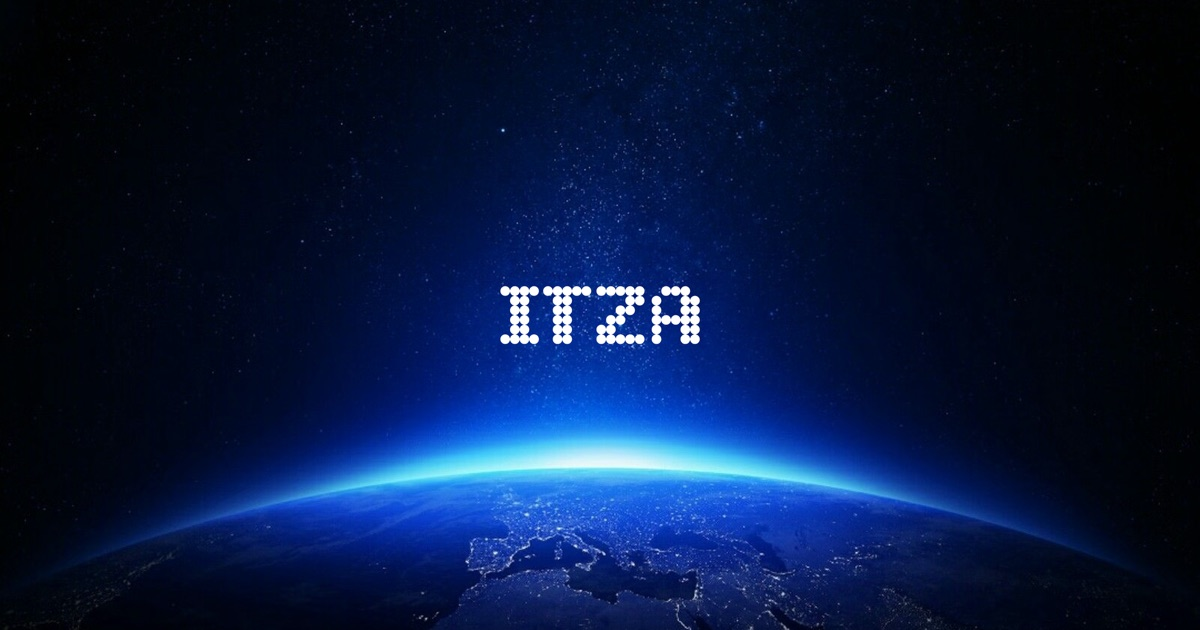
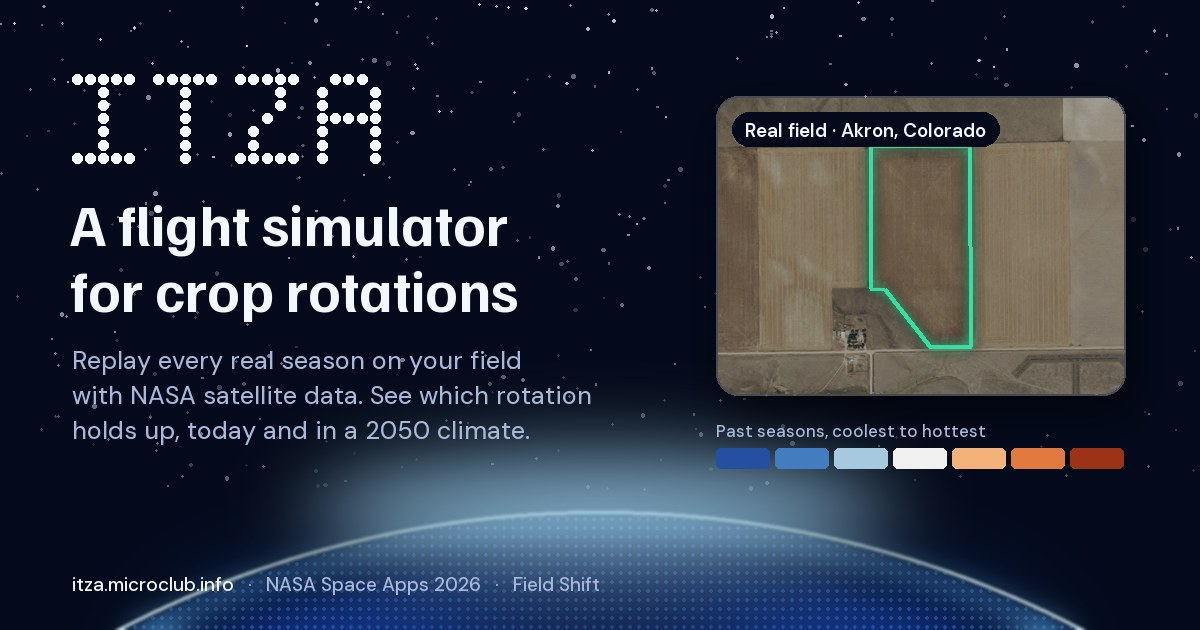
feat(web): draw a new link-preview image from licensed sources

diff --git a/apps/web/index.html b/apps/web/index.html
@@ -29,7 +29,7 @@
     <meta property="og:image:type" content="image/jpeg" />
     <meta property="og:image:width" content="1200" />
     <meta property="og:image:height" content="630" />
-    <meta property="og:image:alt" content="ITZA written in dots above the glowing edge of the Earth seen from space" />
+    <meta property="og:image:alt" content="ITZA, a flight simulator for crop rotations: a real Akron, Colorado field outlined on an aerial photo, above the glowing edge of a dotted Earth" />
 
     <meta name="twitter:card" content="summary_large_image" />
     <meta name="twitter:title" content="ITZA: See Earth Through Time" />
@@ -40,7 +40,7 @@
     <meta name="twitter:image" content="https://itza.microclub.info/og.jpg" />
     <meta
       name="twitter:image:alt"
-      content="ITZA written in dots above the glowing edge of the Earth seen from space"
+      content="ITZA, a flight simulator for crop rotations: a real Akron, Colorado field outlined on an aerial photo, above the glowing edge of a dotted Earth"
     />
 
     <link rel="icon" href="/favicon.svg" type="image/svg+xml" />

diff --git a/apps/web/scripts/make_og_image.py b/apps/web/scripts/make_og_image.py
@@ -1,0 +1,267 @@
+# /// script
+# requires-python = ">=3.12"
+# dependencies = ["pillow>=11", "httpx>=0.28", "fonttools>=4.55", "brotli>=1.1", "pyyaml>=6"]
+# ///
+"""Draws apps/web/public/og.jpg (1200 x 630), the link-preview image.
+
+Everything is drawn here except the field photo: USGS National Map orthoimagery (public domain) of
+the Akron proof field, with its outline from pipelines/hero_fields.yaml. Fonts are the app's own
+DM Sans and Familjen Grotesk (SIL Open Font License), read from node_modules.
+
+    uv run apps/web/scripts/make_og_image.py
+"""
+
+from __future__ import annotations
+
+import io
+import math
+import os
+import random
+import tempfile
+from pathlib import Path
+
+import httpx
+import yaml
+from fontTools.ttLib import TTFont
+from PIL import Image, ImageDraw, ImageFilter, ImageFont
+
+ROOT = Path(__file__).resolve().parents[3]
+OUT = Path(os.environ.get("OG_OUT", ROOT / "apps/web/public/og.jpg"))
+FIELDS = Path(os.environ.get("HERO_FIELDS", ROOT / "pipelines/hero_fields.yaml"))
+W, H = 1200, 630
+BG = (4, 10, 28)
+INK = (243, 247, 255)
+MUTED = (168, 184, 216)
+ACCENT = (127, 208, 255)
+GOOD = (52, 224, 161)
+USGS = "https://basemap.nationalmap.gov/arcgis/rest/services/USGSImageryOnly/MapServer/tile/{z}/{y}/{x}"
+FIELD = "akron-proof-2"
+
+GLYPHS = {
+    "I": ["#####", "..#..", "..#..", "..#..", "..#..", "..#..", "#####"],
+    "T": ["#####", "..#..", "..#..", "..#..", "..#..", "..#..", "..#.."],
+    "Z": ["#####", "...#.", "...#.", "..#..", ".#...", ".#...", "#####"],
+    "A": [".###.", "#...#", "#...#", "#####", "#...#", "#...#", "#...#"],
+}
+
+
+def font(name: str, size: int, weight: int) -> ImageFont.FreeTypeFont:
+    """The app's variable font at a weight, converted from the fontsource WOFF2."""
+    src = next((ROOT / "node_modules/.pnpm").glob(f"@fontsource-variable+{name}@*"))
+    woff2 = (
+        src
+        / f"node_modules/@fontsource-variable/{name}/files/{name}-latin-wght-normal.woff2"
+    )
+    ttf = Path(tempfile.gettempdir()) / f"itza-{name}.ttf"
+    if not ttf.exists():
+        f = TTFont(woff2)
+        f.flavor = None
+        f.save(ttf)
+    face = ImageFont.truetype(str(ttf), size)
+    face.set_variation_by_axes([weight])
+    return face
+
+
+def stars(img: Image.Image, seed: int = 7) -> None:
+    rnd = random.Random(seed)
+    layer = Image.new("RGBA", img.size)
+    d = ImageDraw.Draw(layer)
+    for _ in range(420):
+        x, y = rnd.uniform(0, W), rnd.uniform(0, H * 0.78) ** 1.08 / (H * 0.78) ** 0.08
+        r = rnd.choice((0.6, 0.8, 1.0, 1.0, 1.4, 1.8))
+        a = int(rnd.uniform(60, 230) * (1 - y / H * 0.7))
+        d.ellipse((x - r, y - r, x + r, y + r), fill=(220, 232, 255, a))
+    img.alpha_composite(layer)
+
+
+def earth(img: Image.Image) -> None:
+    """A dark planet made of dots, its limb lit by a thin atmosphere and a sunrise glow."""
+    cx, cy, radius = W * 0.5, 1560.0, 1050.0
+    body = Image.new("RGBA", img.size)
+    ImageDraw.Draw(body).ellipse(
+        (cx - radius, cy - radius, cx + radius, cy + radius), fill=(6, 18, 52, 255)
+    )
+    img.alpha_composite(body)
+    dots = Image.new("RGBA", img.size)
+    d = ImageDraw.Draw(dots)
+    step = 9
+    for y in range(int(cy - radius), H + step, step):
+        for x in range(0, W + step, step):
+            dist = math.hypot(x - cx, y - cy)
+            if dist > radius - 4:
+                continue
+            depth = (radius - dist) / 160
+            a = int(max(0.0, 150 - depth * 70))
+            if a > 8:
+                d.ellipse((x - 1.4, y - 1.4, x + 1.4, y + 1.4), fill=(90, 150, 255, a))
+    img.alpha_composite(dots)
+    for width, blur, colour in (
+        (110, 70, (30, 100, 255, 150)),
+        (26, 18, (90, 180, 255, 230)),
+        (5, 2, (215, 242, 255, 255)),
+    ):
+        ring = Image.new("RGBA", img.size)
+        ImageDraw.Draw(ring).ellipse(
+            (cx - radius, cy - radius, cx + radius, cy + radius),
+            outline=colour,
+            width=width,
+        )
+        img.alpha_composite(ring.filter(ImageFilter.GaussianBlur(blur)))
+    sun = Image.new("RGBA", img.size)
+    ImageDraw.Draw(sun).ellipse(
+        (cx - 330, cy - radius - 80, cx + 330, cy - radius + 80),
+        fill=(175, 228, 255, 190),
+    )
+    img.alpha_composite(sun.filter(ImageFilter.GaussianBlur(48)))
+
+
+def wordmark(img: Image.Image, x: float, y: float, dot: float) -> float:
+    d = ImageDraw.Draw(img)
+    pitch = dot * 1.32
+    for letter in "ITZA":
+        for row, line in enumerate(GLYPHS[letter]):
+            for col, cell in enumerate(line):
+                if cell == "#":
+                    px, py = x + col * pitch, y + row * pitch
+                    d.ellipse((px, py, px + dot, py + dot), fill=INK)
+        x += 6.2 * pitch
+    return x
+
+
+def tile_xy(lon: float, lat: float, z: int) -> tuple[float, float]:
+    n = 2**z
+    return (lon + 180) / 360 * n * 256, (
+        1 - math.asinh(math.tan(math.radians(lat))) / math.pi
+    ) / 2 * n * 256
+
+
+def field_card(size: tuple[int, int]) -> Image.Image:
+    """The Akron proof field on USGS orthoimagery, cropped around its real outline."""
+    fields = yaml.safe_load(FIELDS.read_text())["fields"]
+    ring = next(f for f in fields if f["id"] == FIELD)["geometry"]["coordinates"][0]
+    z = 16
+    pts = [tile_xy(lon, lat, z) for lon, lat in ring]
+    xs, ys = [p[0] for p in pts], [p[1] for p in pts]
+    cx, cy = (min(xs) + max(xs)) / 2, (min(ys) + max(ys)) / 2
+    span = max(max(xs) - min(xs), max(ys) - min(ys)) * 1.55
+    half_w = span * size[0] / max(size) / 2 * (size[0] / size[1]) ** 0.0
+    half_h = half_w * size[1] / size[0]
+    if half_h < (max(ys) - min(ys)) * 0.75:
+        half_h = (max(ys) - min(ys)) * 0.75
+        half_w = half_h * size[0] / size[1]
+    x0, y0, x1, y1 = cx - half_w, cy - half_h, cx + half_w, cy + half_h
+    tx0, ty0, tx1, ty1 = int(x0 // 256), int(y0 // 256), int(x1 // 256), int(y1 // 256)
+    mosaic = Image.new("RGB", ((tx1 - tx0 + 1) * 256, (ty1 - ty0 + 1) * 256))
+    with httpx.Client(timeout=60) as client:
+        for tx in range(tx0, tx1 + 1):
+            for ty in range(ty0, ty1 + 1):
+                r = client.get(USGS.format(z=z, x=tx, y=ty))
+                r.raise_for_status()
+                mosaic.paste(
+                    Image.open(io.BytesIO(r.content)).convert("RGB"),
+                    ((tx - tx0) * 256, (ty - ty0) * 256),
+                )
+    crop = mosaic.crop(
+        (
+            int(x0 - tx0 * 256),
+            int(y0 - ty0 * 256),
+            int(x1 - tx0 * 256),
+            int(y1 - ty0 * 256),
+        )
+    )
+    scale = size[0] / crop.width
+    crop = crop.resize(size, Image.LANCZOS).convert("RGBA")
+    shade = Image.new("RGBA", size, (4, 10, 28, 70))
+    crop.alpha_composite(shade)
+    d = ImageDraw.Draw(crop)
+    outline = [((px - x0) * scale, (py - y0) * scale) for px, py in pts]
+    glow = Image.new("RGBA", size)
+    ImageDraw.Draw(glow).line(outline, fill=(*GOOD, 200), width=10, joint="curve")
+    crop.alpha_composite(glow.filter(ImageFilter.GaussianBlur(6)))
+    d.line(outline, fill=(*GOOD, 255), width=4, joint="curve")
+    mask = Image.new("L", size, 0)
+    ImageDraw.Draw(mask).rounded_rectangle(
+        (0, 0, size[0] - 1, size[1] - 1), radius=22, fill=255
+    )
+    card = Image.new("RGBA", size)
+    card.paste(crop, (0, 0), mask)
+    ImageDraw.Draw(card).rounded_rectangle(
+        (0, 0, size[0] - 1, size[1] - 1),
+        radius=22,
+        outline=(255, 255, 255, 70),
+        width=2,
+    )
+    return card
+
+
+def main() -> None:
+    img = Image.new("RGBA", (W, H), (*BG, 255))
+    stars(img)
+    earth(img)
+    d = ImageDraw.Draw(img)
+
+    wordmark(img, 72, 74, 10)
+    title = font("familjen-grotesk", 58, 700)
+    d.text((70, 186), "A flight simulator", font=title, fill=INK)
+    d.text((70, 252), "for crop rotations", font=title, fill=INK)
+    body = font("dm-sans", 25, 450)
+    for i, line in enumerate(
+        (
+            "Replay every real season on your field",
+            "with NASA satellite data. See which rotation",
+            "holds up, today and in a 2050 climate.",
+        )
+    ):
+        d.text((72, 344 + i * 35), line, font=body, fill=MUTED)
+
+    card = field_card((410, 300))
+    shadow = Image.new("RGBA", img.size)
+    ImageDraw.Draw(shadow).rounded_rectangle(
+        (722, 112, 722 + 410, 112 + 300), radius=22, fill=(0, 0, 0, 160)
+    )
+    img.alpha_composite(shadow.filter(ImageFilter.GaussianBlur(22)))
+    img.alpha_composite(card, (716, 96))
+    small = font("dm-sans", 19, 600)
+    chip = "Real field · Akron, Colorado"
+    tw = d.textlength(chip, font=small)
+    d.rounded_rectangle(
+        (732, 112, 732 + tw + 26, 112 + 34), radius=17, fill=(4, 10, 28, 210)
+    )
+    d.text((745, 118), chip, font=small, fill=INK)
+
+    swatches = (
+        (37, 79, 160),
+        (67, 125, 191),
+        (166, 201, 223),
+        (240, 240, 240),
+        (243, 178, 122),
+        (226, 122, 63),
+        (156, 51, 22),
+    )
+    label = font("dm-sans", 17, 500)
+    d.text((716, 420), "Past seasons, coolest to hottest", font=label, fill=MUTED)
+    for i, colour in enumerate(swatches):
+        x = 716 + i * 59
+        d.rounded_rectangle((x, 448, x + 53, 468), radius=5, fill=colour)
+
+    foot = font("dm-sans", 19, 500)
+    x = 72.0
+    for i, (text, colour) in enumerate(
+        (
+            ("itza.microclub.info", INK),
+            ("NASA Space Apps 2026", MUTED),
+            ("Field Shift", MUTED),
+        )
+    ):
+        if i:
+            d.text((x, 572), "·", font=foot, fill=MUTED)
+            x += d.textlength("·", font=foot) + 14
+        d.text((x, 572), text, font=foot, fill=colour)
+        x += d.textlength(text, font=foot) + 14
+
+    img.convert("RGB").save(OUT, "JPEG", quality=88, optimize=True, progressive=True)
+    print(f"wrote {OUT} ({OUT.stat().st_size // 1024} KB)")
+
+
+if __name__ == "__main__":
+    main()

diff --git a/THIRD_PARTY_NOTICES.md b/THIRD_PARTY_NOTICES.md
@@ -43,6 +43,7 @@ reads them.
 | SoilGrids 2.0 (ISRIC) | Soil texture, organic carbon, pH, available water | CC BY 4.0 | [soilgrids.org](https://soilgrids.org), [doi 10.5194/soil-7-217-2021](https://doi.org/10.5194/soil-7-217-2021) |
 | OpenFreeMap vector tiles and Dark style | Default map | Free service; map data ODbL, © OpenStreetMap contributors; OpenMapTiles schema CC BY 4.0 | [openfreemap.org](https://openfreemap.org) |
 | AWS Terrain Tiles (Terrarium) | 3D twin terrain | Open data; built from SRTM and USGS 3DEP (public domain) and other sources, each with its own attribution | [registry.opendata.aws/terrain-tiles](https://registry.opendata.aws/terrain-tiles/) |
+| USGS National Map orthoimagery (USGSImageryOnly) | Field photo in the link-preview image (`apps/web/public/og.jpg`) | Public domain (US Government work) | [basemap.nationalmap.gov](https://basemap.nationalmap.gov/arcgis/rest/services/USGSImageryOnly/MapServer) |
 | HLS Multi Temporal Crop Classification (2022), Cecil, Kordi, Li, Khallaghi and Alemohammad | Prithvi crop/fallow training and spatial holdout | CC BY 4.0 | [Dataset and citation](https://huggingface.co/datasets/ibm-nasa-geospatial/multi-temporal-crop-classification), DOI 10.57967/hf/0955 |
 | USDA NRCS SSURGO / Soil Data Access | US live-bundle soil properties | Public domain (US Government work) | [Soil Data Access](https://sdmdataaccess.nrcs.usda.gov/); survey area/version retained in soil metadata |
 | FAO / IIASA GAEZ v5, RES05-SIX30AS crop suitability | Advisory suitability evidence for the Sétif story pack (never a filter) | CC BY 4.0 (per layer metadata; GAEZ v4 is CC BY-NC-SA and not used) | [FAO data catalog](https://data.fao.org/catalog/dataset/94c469f7-3352-457e-8025-9bae98982109); FAO and IIASA (2025), Global Agro-Ecological Zones version 5 (GAEZ v5), accessed 2026-11-14 |

diff --git a/submission/references.md b/submission/references.md
@@ -36,6 +36,7 @@ reads them.
 | SoilGrids 2.0 (ISRIC) | Soil texture, organic carbon, pH, available water | CC BY 4.0 | [soilgrids.org](https://soilgrids.org), [doi 10.5194/soil-7-217-2021](https://doi.org/10.5194/soil-7-217-2021) |
 | OpenFreeMap vector tiles and Dark style | Default map | Free service; map data ODbL, © OpenStreetMap contributors; OpenMapTiles schema CC BY 4.0 | [openfreemap.org](https://openfreemap.org) |
 | AWS Terrain Tiles (Terrarium) | 3D twin terrain | Open data; built from SRTM and USGS 3DEP (public domain) and other sources, each with its own attribution | [registry.opendata.aws/terrain-tiles](https://registry.opendata.aws/terrain-tiles/) |
+| USGS National Map orthoimagery (USGSImageryOnly) | Field photo in the link-preview image (`apps/web/public/og.jpg`) | Public domain (US Government work) | [basemap.nationalmap.gov](https://basemap.nationalmap.gov/arcgis/rest/services/USGSImageryOnly/MapServer) |
 | HLS Multi Temporal Crop Classification (2022), Cecil, Kordi, Li, Khallaghi and Alemohammad | Prithvi crop/fallow training and spatial holdout | CC BY 4.0 | [Dataset and citation](https://huggingface.co/datasets/ibm-nasa-geospatial/multi-temporal-crop-classification), DOI 10.57967/hf/0955 |
 | USDA NRCS SSURGO / Soil Data Access | US live-bundle soil properties | Public domain (US Government work) | [Soil Data Access](https://sdmdataaccess.nrcs.usda.gov/); survey area/version retained in soil metadata |
 | FAO / IIASA GAEZ v5, RES05-SIX30AS crop suitability | Advisory suitability evidence for the Sétif story pack (never a filter) | CC BY 4.0 (per layer metadata; GAEZ v4 is CC BY-NC-SA and not used) | [FAO data catalog](https://data.fao.org/catalog/dataset/94c469f7-3352-457e-8025-9bae98982109); FAO and IIASA (2025), Global Agro-Ecological Zones version 5 (GAEZ v5), accessed 2026-11-14 |

diff --git a/README.md b/README.md
@@ -25,7 +25,7 @@ Rules: dark theme only; text contrast at least 4.5:1 on its surface; every contr
 
 ## Search and sharing
 
-[`apps/web/index.html`](apps/web/index.html) carries the title, description, canonical URL, Open Graph and Twitter card tags and `WebApplication` structured data for `https://itza.microclub.info`. The share image is [`apps/web/public/og.jpg`](apps/web/public/og.jpg) (1200 x 630), cut from the banner. `robots.txt` and `sitemap.xml` are in `apps/web/public/`. Each page also sets its own title, description and canonical URL from `apps/web/src/copy/en/seo.json` (`apps/web/src/app/PageMeta.tsx`). The web server (`apps/web/nginx.conf`) answers missing files with a real 404, so link previews never receive the app page instead of the share image. Change the domain in `index.html`, `robots.txt`, `sitemap.xml` and `PageMeta.tsx` together.
+[`apps/web/index.html`](apps/web/index.html) carries the title, description, canonical URL, Open Graph and Twitter card tags and `WebApplication` structured data for `https://itza.microclub.info`. The share image is [`apps/web/public/og.jpg`](apps/web/public/og.jpg) (1200 x 630), drawn by [`apps/web/scripts/make_og_image.py`](apps/web/scripts/make_og_image.py) (`uv run apps/web/scripts/make_og_image.py`): the app's fonts, a dotted Earth and the Akron proof field on USGS orthoimagery (public domain). `robots.txt` and `sitemap.xml` are in `apps/web/public/`. Each page also sets its own title, description and canonical URL from `apps/web/src/copy/en/seo.json` (`apps/web/src/app/PageMeta.tsx`). The web server (`apps/web/nginx.conf`) answers missing files with a real 404, so link previews never receive the app page instead of the share image. Change the domain in `index.html`, `robots.txt`, `sitemap.xml` and `PageMeta.tsx` together.
 
 ## Repository
 
